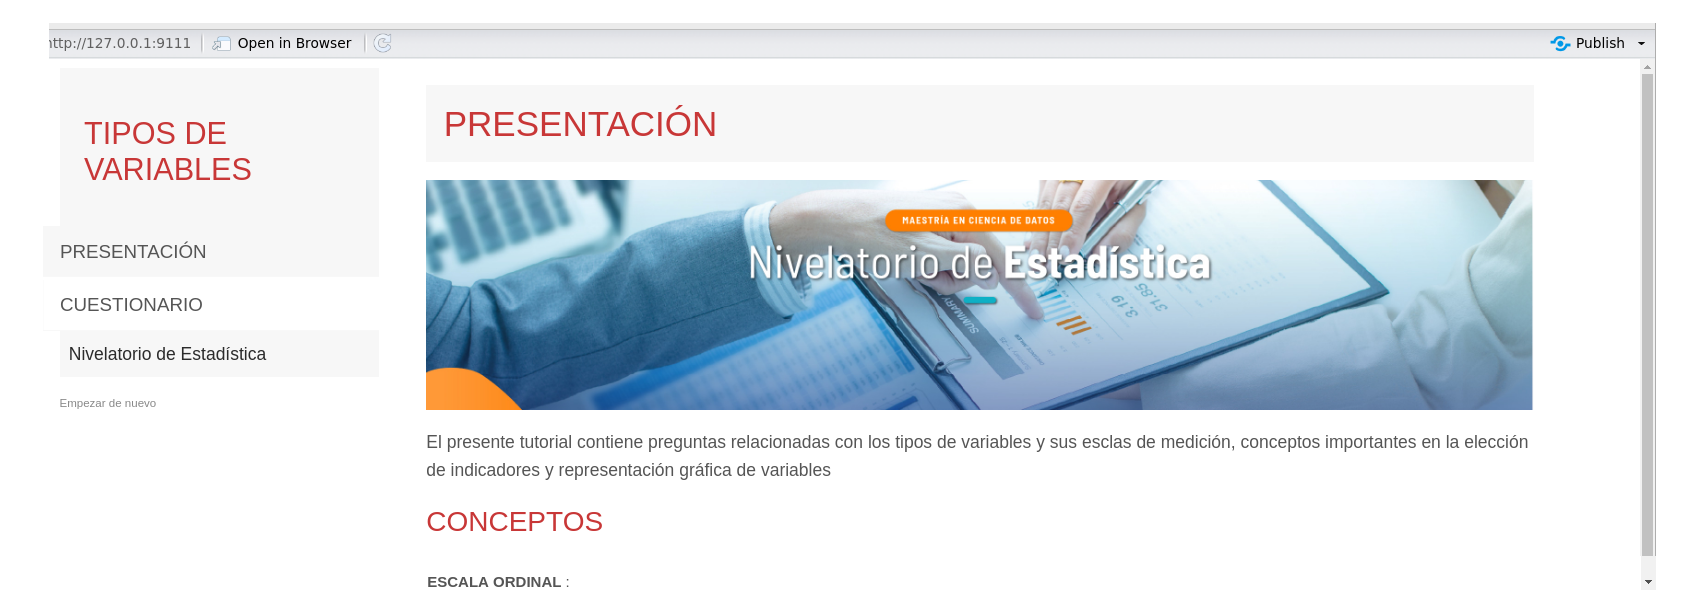
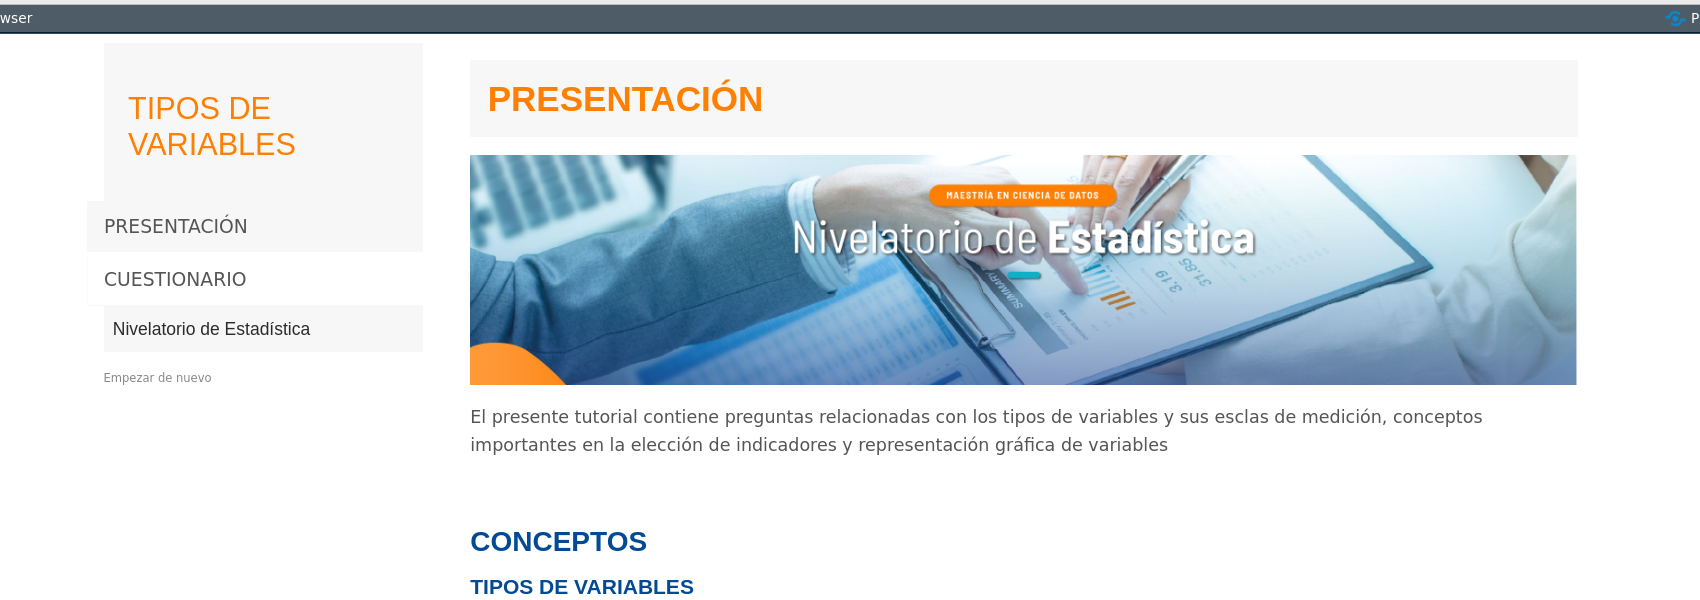
ajustes colores

diff --git a/docs/index.html b/docs/index.html
@@ -276,7 +276,7 @@ $(document).ready(function () {
 <p><img src="img/logoR.png" width="10%" style="display: block; margin: auto auto auto 0;" /></p>
 <p><br/><br/></p>
 <div id="que-es-r" class="section level1">
-<h1><strong>Que es R</strong></h1>
+<h1><span style="color:#FF7F00"><strong>Que es R</strong></span></h1>
 <p><br/></p>
 <p>Es un lenguaje para la computación estadística, utilizado para el
 procesamiento de información y generación de modelos estadísticos.</p>
@@ -305,7 +305,8 @@ ajustes</p></li>
 <p><br/><br/><br/></p>
 </div>
 <div id="qué-es-rstudio" class="section level1">
-<h1>¿Qué es RStudio?</h1>
+<h1><span style="color:#FF7F00"><strong>¿Qué es
+RStudio?</strong></span></h1>
 <p><img src="img/logoRStudio.png" width="20%" style="display: block; margin: auto auto auto 0;" /></p>
 <p>Esta interfaz o IDE que integra un conjunto de herramientas y
 ventanas que facilitan el trabajo con R a sus usuarios</p>
@@ -364,9 +365,9 @@ help("lm")
 <p>A manera de introducción a continuación se relacionan algunas ayudas
 para la iniciación del lenguaje :</p>
 <p><br/><br/><br/></p>
-</div>
-<div id="tipos-de-objetos-en-r" class="section level1">
-<h1><strong>Tipos de objetos en R</strong></h1>
+<div id="tipos-de-objetos-en-r" class="section level2">
+<h2><span style="color:#FF7F00"><strong>Tipos de objetos en
+R</strong></span></h2>
 <p><br/><br/></p>
 <table>
 <colgroup>
@@ -424,8 +425,9 @@ expresión</td>
 href="https://bookdown.org/jboscomendoza/r-principiantes4/">R para
 principiantes</a></p>
 <p>A continuación se presentan algunos ejemplos de objetos</p>
+</div>
 <div id="vector" class="section level2">
-<h2><strong>vector</strong></h2>
+<h2><span style="color:#FF7F00"><strong>vector</strong></span></h2>
 <p>Arreglo unidimensional de valores, caracteres o cadenas</p>
 <pre>
 x=c(1,2,3,4,5)    
@@ -436,7 +438,7 @@ y=c("Muy regular", "Regular", "Bueno", "Muy bueno", "Excelente")     <i class="f
 <p><br/><br/></p>
 </div>
 <div id="matriz" class="section level2">
-<h2><strong>matriz</strong></h2>
+<h2><span style="color:#FF7F00"><strong>matriz</strong></span></h2>
 <p>Arreglo bidimensional de valores</p>
 <pre>
 x=1:9                # vector de 9 valores
@@ -445,7 +447,7 @@ m=matrix(x,nrow=3)   # matriz con 3 filas y 3 columnas
 <p><br/><br/></p>
 </div>
 <div id="arrays" class="section level2">
-<h2><strong>arrays</strong></h2>
+<h2><span style="color:#FF7F00"><strong>arrays</strong></span></h2>
 <p>Arreglos multimensionales de valores. En el siguiente ejemplo se
 representa un arreglo de 3 matrices 3x3 que conformarían en 3D un cubo
 de datos</p>
@@ -459,7 +461,7 @@ mn=array(c(x,y),dim=c(3,3,3)) # <<-
 <p><br/><br/></p>
 </div>
 <div id="factores" class="section level2">
-<h2><strong>factores</strong></h2>
+<h2><span style="color:#FF7F00"><strong>factores</strong></span></h2>
 <p>Vector de variables categóricas, por lo general se utilizan para
 dividir una base en subgrupos</p>
 <pre>
@@ -470,7 +472,7 @@ y=as.factor(y)               # <<-
 <p><br/><br/></p>
 </div>
 <div id="listas" class="section level2">
-<h2><strong>listas</strong></h2>
+<h2><span style="color:#FF7F00"><strong>listas</strong></span></h2>
 <p>Colección de objetos cada uno de tipos diferentes. El objeto de esta
 clase guarda valores en diferentes formatos.</p>
 <p>En el siguiente ejemplo se construye un objeto <strong>h</strong> que
@@ -483,7 +485,7 @@ h=hist(rnorm(100,25,10))
 <p><br/><br/></p>
 </div>
 <div id="data.frames" class="section level2">
-<h2><strong>data.frames</strong></h2>
+<h2><span style="color:#FF7F00"><strong>data.frames</strong></span></h2>
 <p>Estructura de datos de dos dimensiones - filas y columnas - base de
 datos. con la función <code>data()</code> se pueden cargar bases de
 datos contenidas en R. <code>data(iris)</code> carga la base iris que
@@ -494,7 +496,7 @@ data(iris)
 <p><br/><br/></p>
 </div>
 <div id="funciones" class="section level2">
-<h2><strong>funciones</strong></h2>
+<h2><span style="color:#FF7F00"><strong>funciones</strong></span></h2>
 <p>Para construir una función utilizamos la palabra
 <code>function</code>, entre paréntesis los valores de entrada y entre
 corchetes la formula que conforma la función. Por ejemplo:</p>
@@ -535,7 +537,7 @@ grafica(w,"#0EB0C6")          # evalúa la función con w y color azul
 <p><br/><br/></p>
 </div>
 <div id="ts" class="section level2">
-<h2><strong>ts</strong></h2>
+<h2><span style="color:#FF7F00"><strong>ts</strong></span></h2>
 <p>Los objetos <code>ts</code> corresponde a series temporales que están
 compuestos por un inicio, un final y una periodicidad temporal
 regular</p>
@@ -547,7 +549,8 @@ temperatura=ts(x,freq=12,start=c(1981,1))   # <<-
 </div>
 </div>
 <div id="operadores-en-r" class="section level1">
-<h1><strong>Operadores en R</strong></h1>
+<h1><span style="color:#FF7F00"><strong>OPERADORES EN
+R</strong></span></h1>
 <table>
 <colgroup>
 <col width="8%" />

diff --git a/docs/recurso102.html b/docs/recurso102.html
@@ -273,8 +273,9 @@ de paquetes en R</strong></span></h1>
 
 
 <p><br/><br/></p>
-<div id="instalación-de-paquetes-en-r" class="section level1">
-<h1><strong>Instalación de paquetes en R</strong></h1>
+<div id="instalación-de-paquetes-en-r" class="section level2">
+<h2><span style="color:#FF7F00"><strong>INSTALACIÓN DE PAQUETES EN
+R</strong></span></h2>
 <p>El lenguaje <strong>R</strong> esta conformado por miles de paquetes
 o <strong>Packages</strong> construidos por investigadores en diversos
 temas y área del conocimiento</p>
@@ -308,9 +309,11 @@ almacenado en github utilizando el paquete <code>devtools</code></p>
 <p><br/><br/></p>
 </div>
 </div>
+</div>
 <div id="paquetes-más-utilizados-en-ciencia-de-datos"
-class="section level3">
-<h3><strong>Paquetes más utilizados en ciencia de datos</strong></h3>
+class="section level2">
+<h2><span style="color:#FF7F00"><strong>PAQUETES MÁS UTILIZADOS EN
+CIENCIA DE DATOS</strong></span></h2>
 <p><br/><br/></p>
 <table>
 <colgroup>
@@ -422,14 +425,14 @@ frecuencia</td>
 <p><br/><br/></p>
 </div>
 <div id="ventana-help" class="section level2">
-<h2><strong>Ventana Help</strong></h2>
+<h2><span style="color:#FF7F00"><strong>VENTANA
+HELP</strong></span></h2>
 <p>La función <code>help()</code> permite la visualización de las ayudas
 relacionadas con una función en la ventana Help que permite visualizar
 la sintaxis de las funciones. En el siguiente ejemplo la función
 help(“install.packages”) permite visualizar los parámetros de la
 función</p>
 <pre class="r"><code>help(&quot;sum&quot;)</code></pre>
-</div>
 </div>
 
 

diff --git a/docs/recurso103.html b/docs/recurso103.html
@@ -290,8 +290,8 @@ entre otros permiten la construcción de documentos para comunicar los
 resultados obtenidos en un proceso</p>
 <p><img src="img/rmarkdown_universe.jpg" width="100%" style="display: block; margin: auto;" />
 <br/><br/></p>
-<div id="formatos-rmd" class="section level2">
-<h2><strong>Formatos Rmd</strong></h2>
+<div id="formato-rmd" class="section level2">
+<h2><span style="color:#FF7F00"><strong>FORMATO Rmd</strong></span></h2>
 <p>Para asceder a una plantilla Rmd ingresamos por :</p>
 <p><br/></p>
 <p>File / New File / R Marckdown …</p>
@@ -332,7 +332,8 @@ queremos clonar un repositorio previamente creado en GitHub</p></li>
 <p><br/></p>
 </div>
 <div id="sintaxis-rmd" class="section level2">
-<h2><strong>Sintaxis Rmd</strong></h2>
+<h2><span style="color:#FF7F00"><strong>SINTAXIS
+Rmd</strong></span></h2>
 <p><br/><br/></p>
 <p>Los archivos creados a partir de la secuencia :
 <code>File / New File / R Marckdown ...</code> presenta una plantilla
@@ -356,7 +357,8 @@ href="https://mc-stan.org/">Stan</a></p>
 <br/><br/></p>
 </div>
 <div id="plantilla-para-libro" class="section level2">
-<h2><strong>Plantilla para libro</strong></h2>
+<h2><span style="color:#FF7F00"><strong>PLANTILLA PARA
+LIBRO</strong></span></h2>
 <p>Es facil construir un libro en Rmd : File / New Project.. / New
 Directory / Book project using bookdown</p>
 <p><img src="img/book1.png" width="100%" style="display: block; margin: auto;" /></p>

diff --git a/docs/recurso104.html b/docs/recurso104.html
@@ -287,7 +287,8 @@ conocimientos, por lo que es importante poder estar familiarizados con
 su carga y activación.</p>
 <p><br/><br/></p>
 <div id="instalación-de-paquetes" class="section level3">
-<h3><strong>Instalación de paquetes</strong></h3>
+<h3><span style="color:#FF7F00"><strong>INSTALACIÓN DE
+PAQUETES</strong></span></h3>
 <p><br/></p>
 <p>Para activar los tutoriales en R se requiere tener instalados y
 activados los siguientes paquetes:</p>
